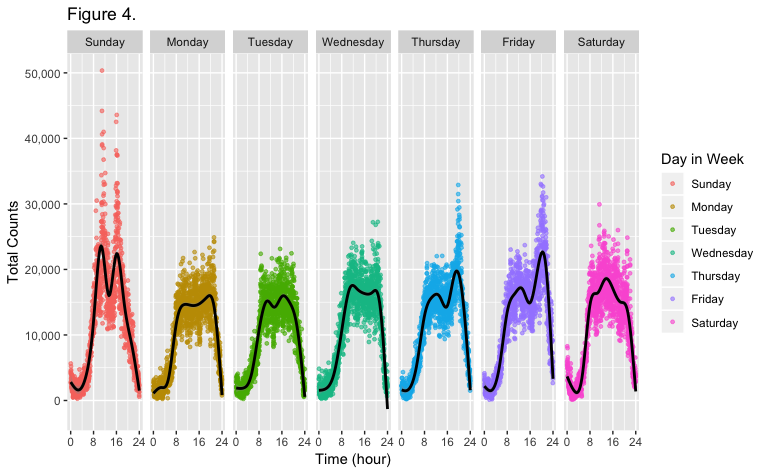
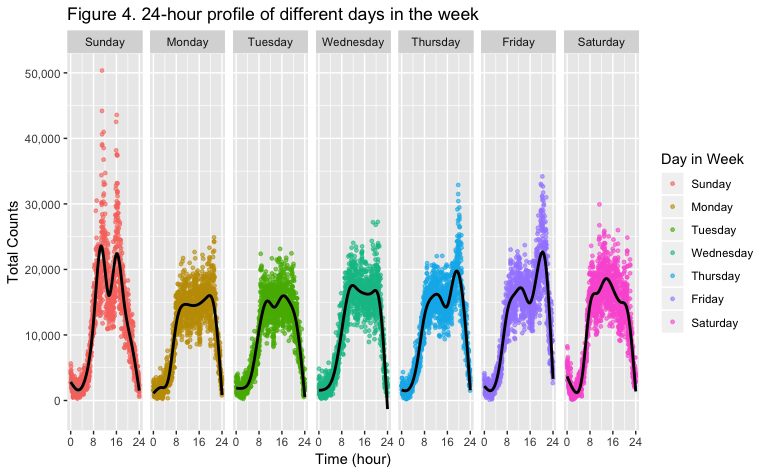
almost finished...

Changed region(s): [[0.1875, 0.0, 0.625, 0.0591]]

diff --git a/p8105_mtp_zf2213.md b/p8105_mtp_zf2213.md
@@ -187,15 +187,19 @@ activity_day_total %>%
       labs(
         x = "Day",
         y = "Total activity in the days",
-        title = "Figure.2 Activity of days in the week"
+        title = "Figure.2 Activity of days in the week",
+        color = "Day in week"
       )
 ```
 
 <img src="p8105_mtp_zf2213_files/figure-gfm/scatterplot_days_of_week-1.png" width="100%" />
 
+The patient seems to be most active during Fridays and Sundays, and
+least during Tuesdays, according to the boxplot in Figure.2.
+
 The increases of active during Friday, Saturday and Sunday over time are
 more significant that that of other days in the week. But the trends are
-all the same.
+the same for each day in the week.
 
 ### Activities over the course of the day
 
@@ -203,9 +207,9 @@ all the same.
 # display 24-hour profile for each day using 2d density plot
 activity %>%
     # using heatmap to show every minute of each day
-    ggplot(aes(y = minute_in_day / 60, x = day, color = log(counts, 2))) +
+    ggplot(aes(y = minute_in_day / 60, x = day, color = log(counts, 10))) +
       # heatmap
-      geom_point(size = 0.1, alpha = 0.5) +
+      geom_point(size = 0.3, alpha = 0.5) +
       # label special days
       scale_x_continuous(breaks = c(1, 49, 55, 92, 108, 185, 243, 259, 300, 329)) +
         # hours in the days
@@ -223,17 +227,26 @@ activity %>%
         title = "Figure.3 Heatmap of 24-hour activity profile for each day"
       ) +
       theme(
-        axis.text.x = element_text(color = "red", angle = 45)
+        axis.text.x = element_text(color = "red", angle = 45),
+        legend.position = "bottom"
       )
 ```
 
 <img src="p8105_mtp_zf2213_files/figure-gfm/heatmap-1.png" width="100%" />
 
-The patient are active during days and sedatory during night. He seems
-to live a regular life.
+``` r
+activity %>%
+    ggplot(aes(x = counts)) + scale_x_log10(breaks = c(2, 4, 8, 16, 32)) + 
+    geom_density()
+```
 
-Regarding the data, there seem to be some “special” days (as mentioned
-in Figure.1), and some days with extremely low variance. Refer to
+<img src="p8105_mtp_zf2213_files/figure-gfm/heatmap-2.png" width="100%" />
+
+The patient are active during days and sedatory during night. He seems
+to live a regular life, and slightly more active during night than days.
+
+Regarding the data, there seem to be some missing days (as mentioned in
+Figure.1), and some “strange” days with extremely low variance. Refer to
 supplementary material for more information.
 
 ### Daily distribution
@@ -257,7 +270,7 @@ activity %>%
         x = "Time (hour)",
         y = "Total Counts",
         color = "Day in Week",
-        title = "Figure 4. "
+        title = "Figure 4. 24-hour profile of different days in the week"
       ) + 
       # get the 24-hour profile for each day of the week
       facet_grid(. ~ day_in_week)
@@ -267,18 +280,36 @@ activity %>%
 
 <img src="p8105_mtp_zf2213_files/figure-gfm/24hour_day_in_week-1.png" width="100%" />
 
+The patient seems to be quite active during Friday and weekends. For
+some reasons, there are activity peaks during Thursday and Friday
+nights, and two peaks in Sundays.
+
 ## Discussion
+
+To summarize, the accelerometer data provides observations of daily
+activity of a patient. Wrangling more sophisticated information from
+this dataset requires more advanced statistical learning knowledge and
+programming skills.
 
 ## Supplementary material
 
 ``` r
 # some feature days
 activity %>% 
+    # get some days as examples
   filter(day %in% c(0, 49, 55, 92, 107:108, 185, 243, 244, 259, 300)) %>%
+    # plot scatterplot for each days
     ggplot(aes(y = log10(counts), x = minute_in_day / 60, color = as.factor(day))) +
+      # scatterplot
       geom_point(size = 0.5) +
+      # one plot for each day
       facet_grid(day ~ .) +
-      labs(x = "Time (hour)", y = "log10 Transformed Counts", color = "Special Days")
+      # labels
+      labs(x = "Time (hour)",
+             y = "log10 Transformed Counts",
+             color = "Special Days",
+             title = "Supplementary figure.1 Some typical day observations",
+             caption = "Missing days: 49, 55. Normal days: 259, 300. `Strange` days: 108, 243. Mix of different types: 92, 185, 244")
 ```
 
-<img src="p8105_mtp_zf2213_files/figure-gfm/unnamed-chunk-1-1.png" width="100%" />
+<img src="p8105_mtp_zf2213_files/figure-gfm/example_days-1.png" width="100%" />
